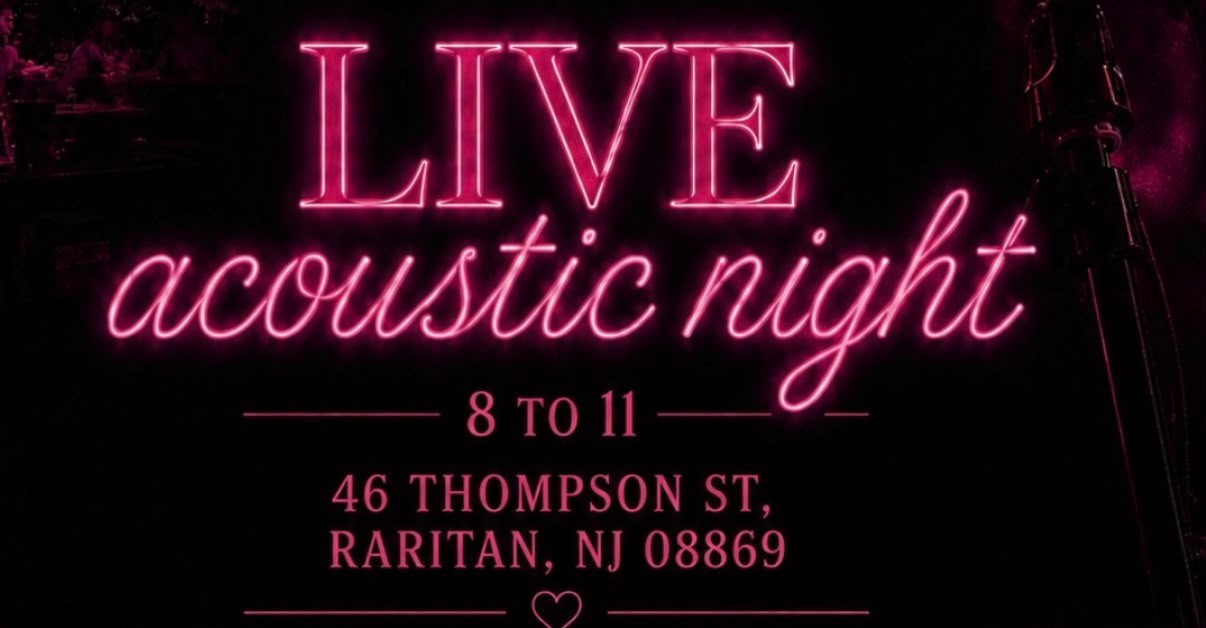
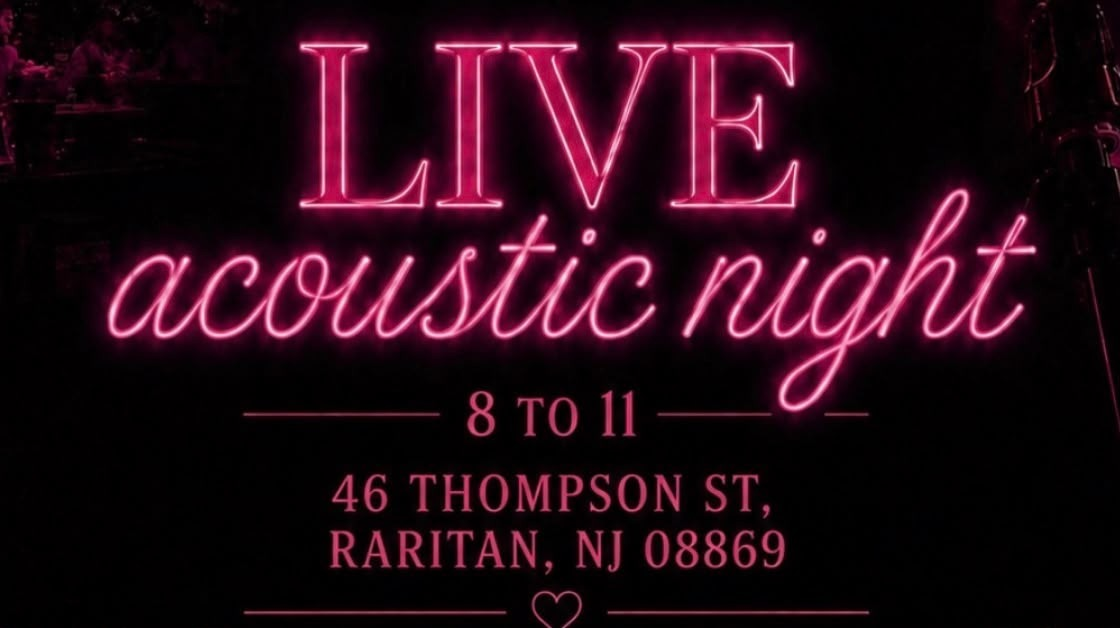
centre the lettering in the acoustic night poster

diff --git a/index.html b/index.html
@@ -1010,7 +1010,7 @@
 
     <!-- SATURDAY FEATURE: wide card with the poster -->
     <article class="promo a reveal" data-day="6">
-      <img src="images/acoustic-night.jpg" alt="Live Acoustic Night, 8 to 11, at 46 Thompson St, Raritan NJ" class="promo-img" width="1206" height="628" loading="lazy">
+      <img src="images/acoustic-night.jpg?v=2" alt="Live Acoustic Night, 8 to 11, at 46 Thompson St, Raritan NJ" class="promo-img" width="1120" height="628" loading="lazy">
       <div class="promo-text">
         <div class="top">Saturdays</div>
         <div class="title">Live<br>Acoustic Night</div>
